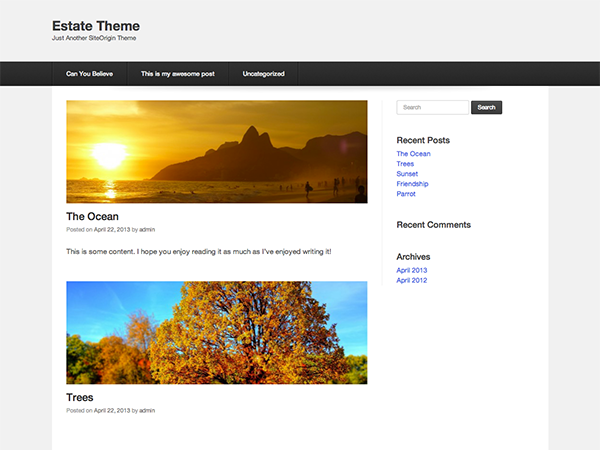
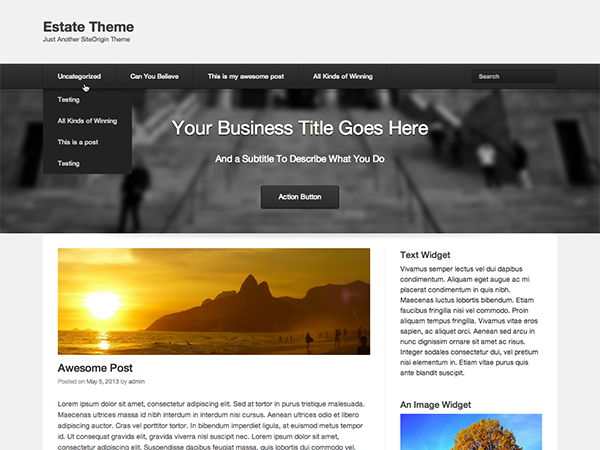
Added home page image to Estate. Changed Screenshot. Various small fixes and updates.

diff --git a/style.css b/style.css
@@ -2,6 +2,7 @@
 Theme Name: Estate
 Author: SiteOrigin
 Author URI: http://siteorigin.com/
+Theme URI: http://siteorigin.com/theme/estate/
 Description: A general purpose theme with a clean, professional layout.
 Version: trunk
 License: GNU General Public License 2.0
@@ -1152,7 +1153,7 @@ body.page-template-template-full-php #primary {
   -moz-box-sizing: border-box;
   -webkit-box-sizing: border-box;
   box-sizing: border-box;
-  float: right;
+  float: left;
   padding: 30px 15px;
   margin-bottom: 0;
   color: #999;
@@ -1363,9 +1364,9 @@ body.page-template-template-full-php #primary {
 }
 #top-slider .slides .slide .slide-contents h2 {
   color: #FFF;
-  font-size: 36px;
+  font-size: 38px;
   text-shadow: 0 2px 2px rgba(0, 0, 0, 0.6);
-  margin-bottom: 30px;
+  margin-bottom: 20px;
 }
 #top-slider .slides .slide .slide-contents h4 {
   color: #FFF;
@@ -1446,6 +1447,10 @@ body.page-template-template-full-php #primary {
   -webkit-box-shadow: 0 0 5px rgba(0, 0, 0, 0.85);
   -moz-box-shadow: 0 0 5px rgba(0, 0, 0, 0.85);
   box-shadow: 0 0 5px rgba(0, 0, 0, 0.85);
+}
+#top-slider .slides .slide .home-title {
+  padding: 50px 0;
+  text-align: center;
 }
 #top-slider .decoration {
   position: absolute;

diff --git a/style.less b/style.less
@@ -2,6 +2,7 @@
 Theme Name: Estate
 Author: SiteOrigin
 Author URI: http://siteorigin.com/
+Theme URI: http://siteorigin.com/theme/estate/
 Description: A general purpose theme with a clean, professional layout.
 Version: trunk
 License: GNU General Public License 2.0
@@ -1056,7 +1057,7 @@ body.page-template-template-full-php #primary {
 	aside.widget {
 		font-size: 15px;
 		.box-sizing(border-box);
-		float: right;
+		float: left;
 		padding: 30px 15px;
 		margin-bottom:0;
 		color: #999;

diff --git a/less/slider.less b/less/slider.less
@@ -166,9 +166,9 @@
 
 				h2 {
 					color: #FFF;
-					font-size: 36px;
+					font-size: 38px;
 					text-shadow: 0 2px 2px rgba(0,0,0,0.6);
-					margin-bottom: 30px;
+					margin-bottom: 20px;
 				}
 
 				h4 {
@@ -236,6 +236,11 @@
 						.box-shadow(0 0 5px rgba(0,0,0,0.85));
 					}
 				}
+			}
+
+			.home-title {
+				padding: 50px 0;
+				text-align: center;
 			}
 		}
 	}

diff --git a/inc/slider.php b/inc/slider.php
@@ -1,104 +1,58 @@
 <?php
 
-/**
- * Integration with SiteOrigin slider plugin
- */
-
-function estate_slider_fields(){
-	?>
-	<tr>
-		<td>
-			<strong><?php _e('Home Slider Settings', 'estate') ?></strong>
-		</td>
-	</tr>
-	<tr valign="top">
-		<th scope="row"><label><?php _e('Information Text', 'estate') ?></label></th>
-		<td>
-			<textarea rows="2" name="siteorigin_slider[info][]" class="large-text"></textarea>
-		</td>
-	</tr>
-	<tr valign="top">
-		<th scope="row"><label><?php _e('Background Image', 'estate') ?></label></th>
-		<td>
-			<div class="thumbnail-wrapper">
-				<img src="#" width="75" height="75" class="thumbnail" />
-			</div>
-			<select class="siteorigin-media" name="siteorigin_slider[background_image][]">
-				<option value="-1"><?php _e('None', 'estate') ?></option>
-			</select>
-
-			<div class="loading"></div>
-		</td>
-	</tr>
-
-	<tr valign="top">
-		<th scope="row"><label><?php _e('Slide Layout', 'estate') ?></label></th>
-		<td>
-			<select name="siteorigin_slider[layout][]">
-				<option value="left"><?php _e('Left', 'estate') ?></option>
-				<option value="right"><?php _e('Right', 'estate') ?></option>
-			</select>
-		</td>
-	</tr>
-
-	<tr valign="top">
-		<th scope="row"><label><?php _e('Button Text', 'estate') ?></label></th>
-		<td>
-			<input type="text" name="siteorigin_slider[button][]">
-		</td>
-	</tr>
-	<?php
-}
-add_action('siteorigin_slider_after_builder_form', 'estate_slider_fields');
-
 function estate_display_top_slider(){
-	if( is_front_page() && $GLOBALS['wp_query']->get('paged') == 0 && siteorigin_setting('home_slider') == 'demo' ) {
-		?>
-		<div id="top-slider">
-			<div class="decoration"></div>
-			<?php estate_home_slider_demo_render() ?>
-		</div>
-	<?php
-	}
-	elseif( is_home() && $GLOBALS['wp_query']->get('paged') == 0 && siteorigin_setting('home_slider') && class_exists('SiteOrigin_Slider_Widget') ) {
-		the_widget(
-			'SiteOrigin_Slider_Widget',
-			array(
-				'slider_id' => siteorigin_setting('home_slider'),
-				'render_callback' => 'estate_home_slider_custom_render',
-			),
-			array(
-				'before_widget' => '<div id="top-slider"><div class="decoration"></div>',
-				'after_widget' => '</div>',
-			)
-		);
-	}
-	elseif(is_single() && get_post_meta(get_the_ID(), 'estate_slider_display', true)) {
-		// Display this page's slider
-		the_widget(
-			'SiteOrigin_Slider_Widget',
-			array(
-				'slider_id' => siteorigin_setting('home_slider'),
-				'render_callback' => 'estate_home_slider_custom_render',
-			),
-			array(
-				'before_widget' => '<div id="top-slider"><div class="decoration"></div>',
-				'after_widget' => '</div>',
-			)
-		);
-	}
-}
+	if( is_front_page() && $GLOBALS['wp_query']->get('paged') == 0 ) {
 
-/**
- * Custom render function for the home page slider.
- */
-function estate_home_slider_custom_render(){
+		if(siteorigin_setting('banner_type') == 'title_banner' ){
+			$image = siteorigin_setting('banner_image');
+			if(empty($image)){
+				$image = get_template_directory_uri().'/images/home.jpg';
+			}
+			else {
+				$image = wp_get_attachment_image_src(siteorigin_setting('banner_image'), 'original');
+				$image = $image[0];
+			}
 
-}
+			?>
+			<div id="top-slider">
+				<div class="decoration"></div>
+				<ul class="slides">
+					<li class="slide" style="background-image: url(<?php echo esc_url($image) ?>); background-color: <?php echo siteorigin_setting('banner_color') ?>">
+						<div class="slide-contents home-title">
+							<?php if(siteorigin_setting('banner_title', '') != '') : ?><h2><?php echo esc_html(siteorigin_setting('banner_title', '')) ?></h2><?php endif; ?>
+							<?php if(siteorigin_setting('banner_subtitle', '') != '') : ?><h4><?php echo esc_html(siteorigin_setting('banner_subtitle', '')) ?></h4><?php endif; ?>
 
-/**
- *
- */
-function estate_home_slider_demo_render(){
-	get_template_part('demo/slider');
+							<?php if(siteorigin_setting('banner_button', '') != '') : ?>
+								<div class="slide-button">
+									<a href="<?php esc_attr(siteorigin_setting('banner_button_url')) ?>" class="action-button"><?php echo esc_html(siteorigin_setting('banner_button', '')) ?></a>
+								</div>
+							<?php endif; ?>
+						</div>
+					</li>
+				</ul>
+			</div>
+			<?php
+		}
+		elseif(siteorigin_setting('banner_type') == 'title_banner_noimage') {
+			?>
+			<div id="top-slider">
+				<div class="decoration"></div>
+				<ul class="slides">
+					<li class="slide" style="background-color: <?php echo siteorigin_setting('banner_color') ?>">
+						<div class="slide-contents home-title">
+							<?php if(siteorigin_setting('banner_title', '') != '') : ?><h2><?php echo esc_html(siteorigin_setting('banner_title', '')) ?></h2><?php endif; ?>
+							<?php if(siteorigin_setting('banner_subtitle', '') != '') : ?><h4><?php echo esc_html(siteorigin_setting('banner_subtitle', '')) ?></h4><?php endif; ?>
+
+							<?php if(siteorigin_setting('banner_button', '') != '') : ?>
+								<div class="slide-button">
+									<a href="<?php esc_attr(siteorigin_setting('banner_button_url')) ?>" class="action-button"><?php echo esc_html(siteorigin_setting('banner_button', '')) ?></a>
+								</div>
+							<?php endif; ?>
+						</div>
+					</li>
+				</ul>
+			</div>
+			<?php
+		}
+	}
 }

diff --git a/inc/settings.php b/inc/settings.php
@@ -16,7 +16,7 @@
  */
 function estate_theme_settings(){
 	siteorigin_settings_add_section('general', __('General', 'estate'));
-	// siteorigin_settings_add_section('home', __('Home Page', 'estate'));
+	siteorigin_settings_add_section('banner', __('Home Banner', 'estate'));
 
 	/**
 	 * General Settings
@@ -39,27 +39,20 @@ function estate_theme_settings(){
 	 * Home Page
 	 */
 
-	/*
-	$slider_options = array('' => __('None', 'estate'), 'demo' => __('Demo', 'estate'));
-	if(function_exists('siteorigin_slider_get_sliders')){
-		$sliders = siteorigin_slider_get_sliders();
-		foreach($sliders as $slider){
-			$slider_options[$slider->ID] = $slider->post_title;
-		}
-		$description = null;
-	}
-	else{
-		$description = sprintf(
-			__('Display a slider on your home page. Requires <a href="%s">SiteOrigin Slider</a> plugin', 'estate'),
-			siteorigin_plugin_activation_install_url('siteorigin-slider', __('SiteOrigin Slider', 'estate'), 'http://gpriday.s3.amazonaws.com/plugins/siteorigin-slider.zip')
-		);
-	}
-
-	siteorigin_settings_add_field('home', 'slider', 'select', __('Home Page Slider', 'estate'), array(
-		'description' =>$description,
-		'options' => $slider_options
+	siteorigin_settings_add_field('banner', 'type', 'select', __('Home Page Banner', 'estate'), array(
+		'options' => array(
+			'' => __('None', 'estate'),
+			'title_banner' => __('Title Banner with Image', 'estate'),
+			'title_banner_noimage' => __('Title Banner without Image', 'estate'),
+		)
 	));
-	*/
+
+	siteorigin_settings_add_field('banner', 'image', 'media', __('Background Image', 'estate'));
+	siteorigin_settings_add_field('banner', 'color', 'color', __('Background Color', 'estate'));
+	siteorigin_settings_add_field('banner', 'title', 'text', __('Banner Title', 'estate'));
+	siteorigin_settings_add_field('banner', 'subtitle', 'text', __('Banner Subtitle', 'estate'));
+	siteorigin_settings_add_field('banner', 'button', 'text', __('Banner Button', 'estate'));
+	siteorigin_settings_add_field('banner', 'button_url', 'text', __('Banner Button URL', 'estate'));
 
 }
 add_action('admin_init', 'estate_theme_settings');
@@ -76,7 +69,12 @@ function estate_theme_setting_defaults($defaults){
 	$defaults['general_site_description'] = true;
 	$defaults['general_menu_search'] = false;
 
-	// $defaults['home_slider'] = 'demo';
+	$defaults['banner_type'] = 'title_banner';
+	$defaults['banner_color'] = '#1c1c1c';
+	$defaults['banner_title'] = __('Your Business Title Goes Here', 'estate');
+	$defaults['banner_subtitle'] = __('And a Subtitle To Describe What You Do', 'estate');
+	$defaults['banner_button'] = __('Action Button', 'estate');
+	$defaults['banner_button_url'] = '#';
 
 	$defaults['layout_responsive'] = false;
 

diff --git a/header.php b/header.php
@@ -47,7 +47,7 @@
 		</div></nav><!-- .site-navigation .main-navigation -->
 	</header><!-- #masthead .site-header -->
 
-	<?php // estate_display_top_slider() ?>
+	<?php estate_display_top_slider() ?>
 
 	<div id="main" class="site-main">
 		<img id="main-shadow" src="<?php echo get_template_directory_uri() ?>/images/decoration/footer-shadow.png" width="820" height="19" />
